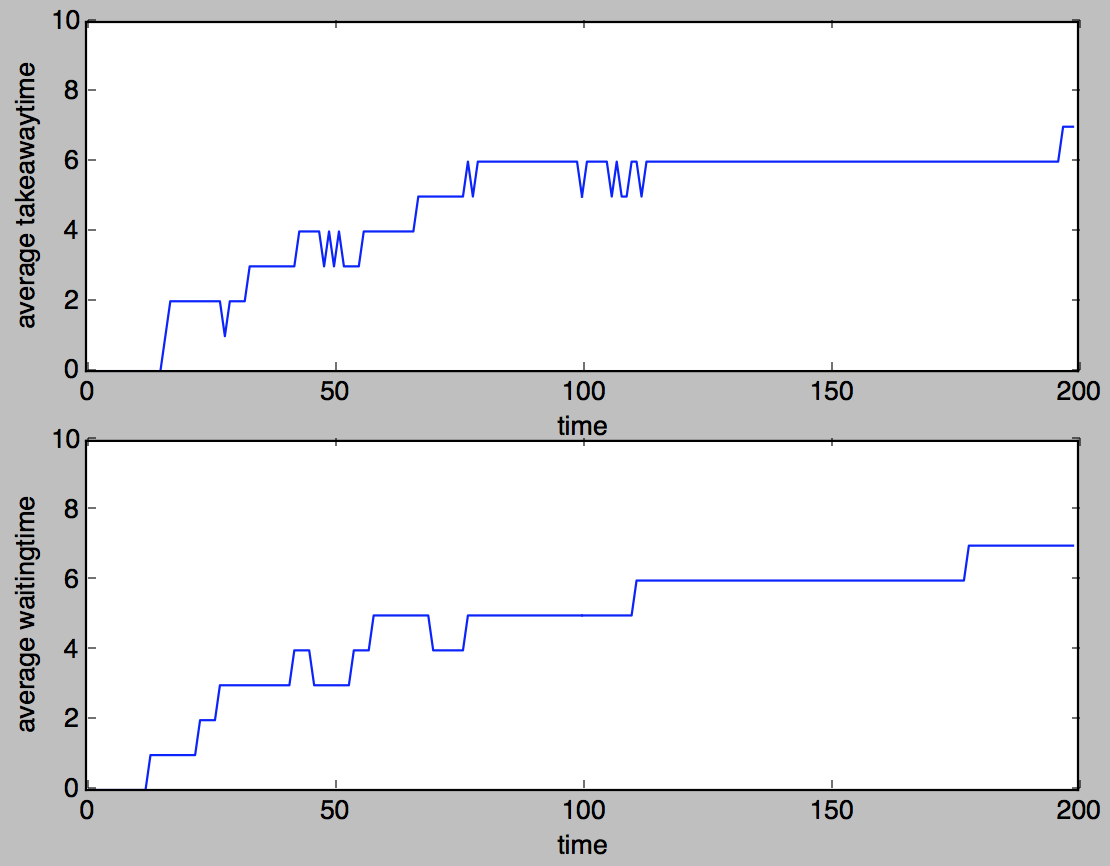
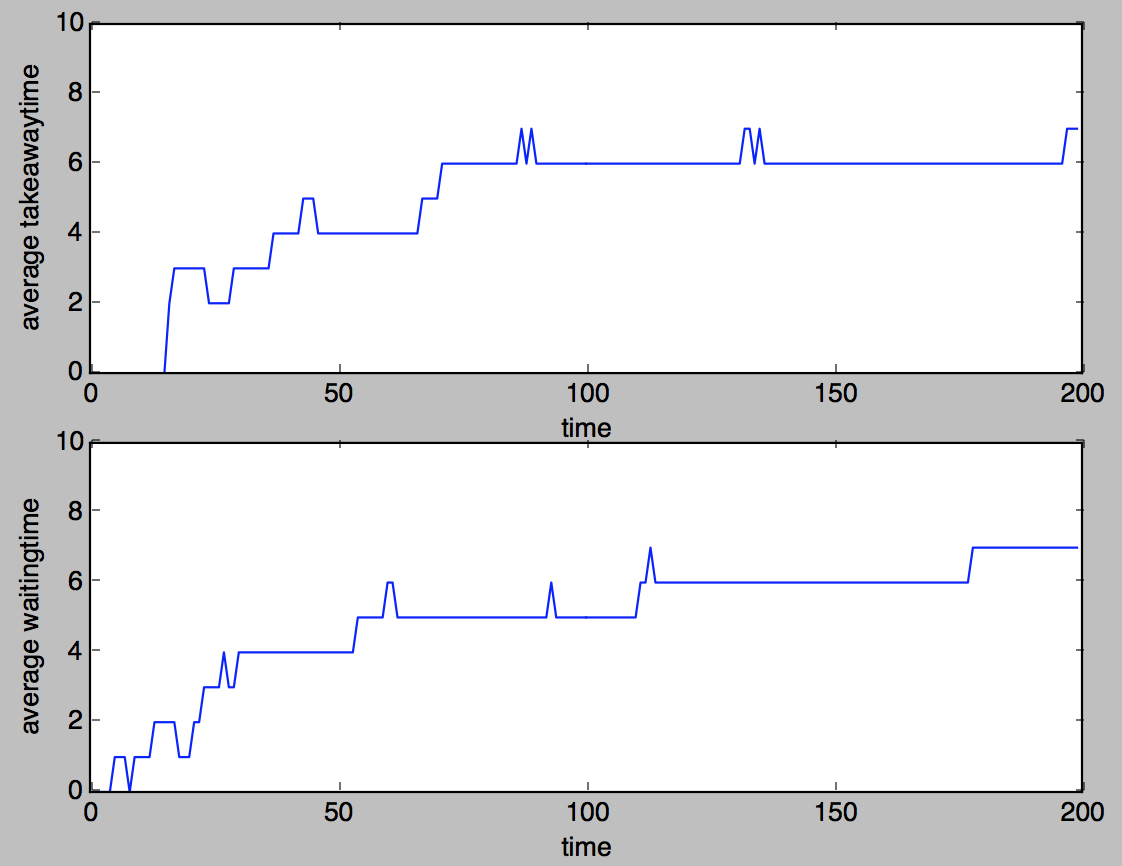
[MDP][Birger] add stuff

diff --git a/MDP/Aufgabe4/Birger/MDP_Aufgabe4/src/Monitoring/Monitoring.py b/MDP/Aufgabe4/Birger/MDP_Aufgabe4/src/Monitoring/Monitoring.py
@@ -90,5 +90,6 @@ def get_average_takeawaytime_by_calls(calls):
 def collect_calls_on_time(timestamp, all_calls):
     temp_calls = []
     for call in all_calls:
-        temp_calls.append(copy.deepcopy(call))
+        if timestamp >= call.open_at:
+            temp_calls.append(copy.deepcopy(call))
     calls_per_time[timestamp] = temp_calls
